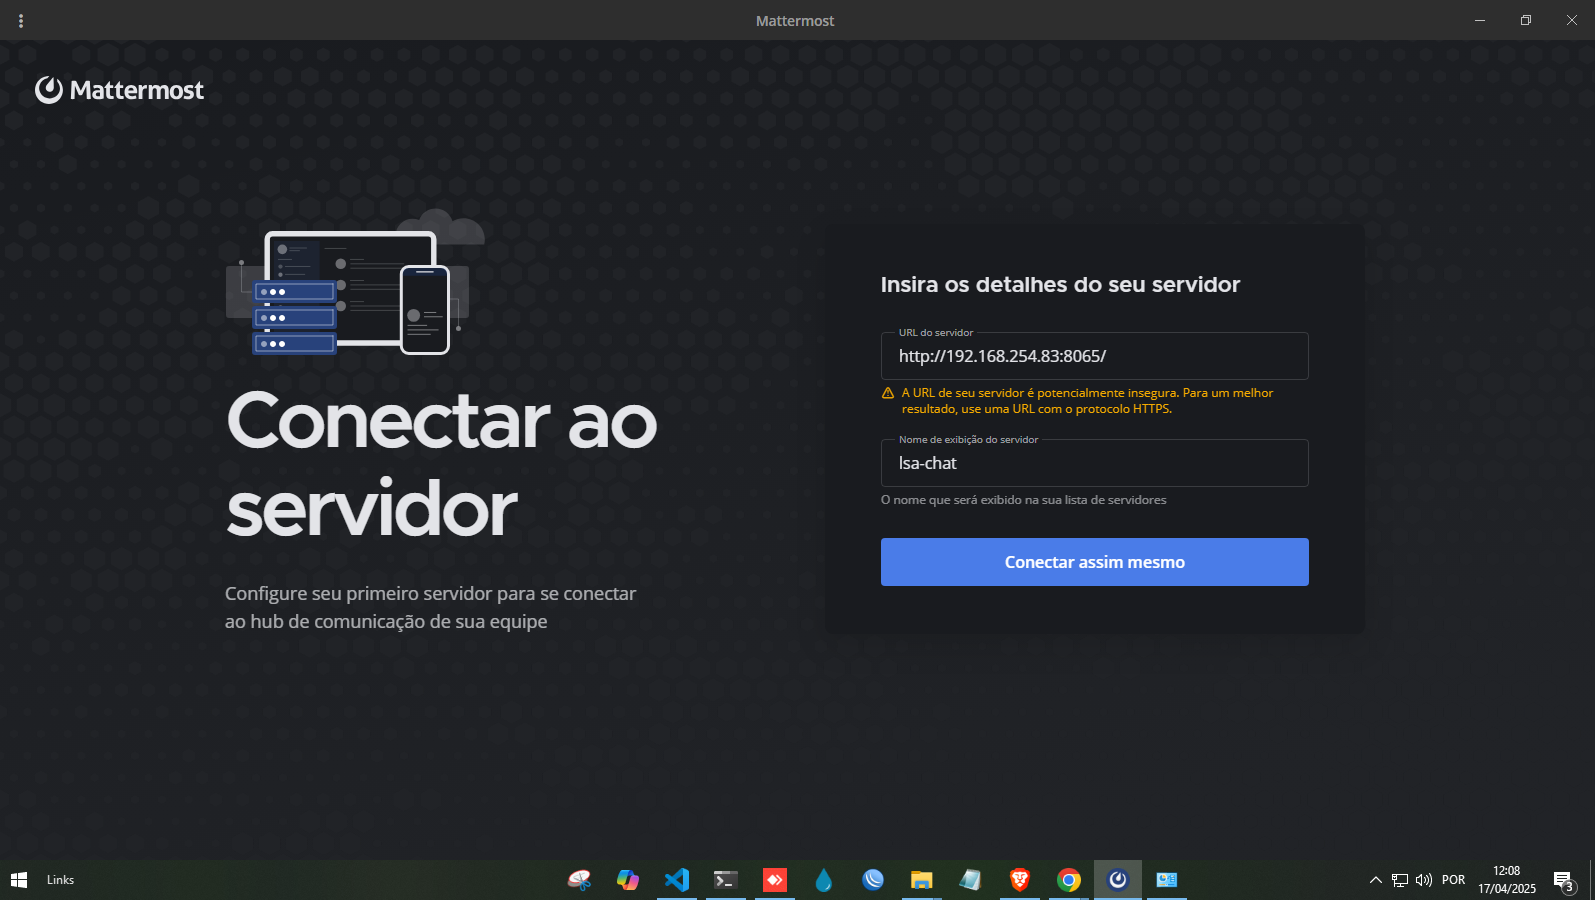
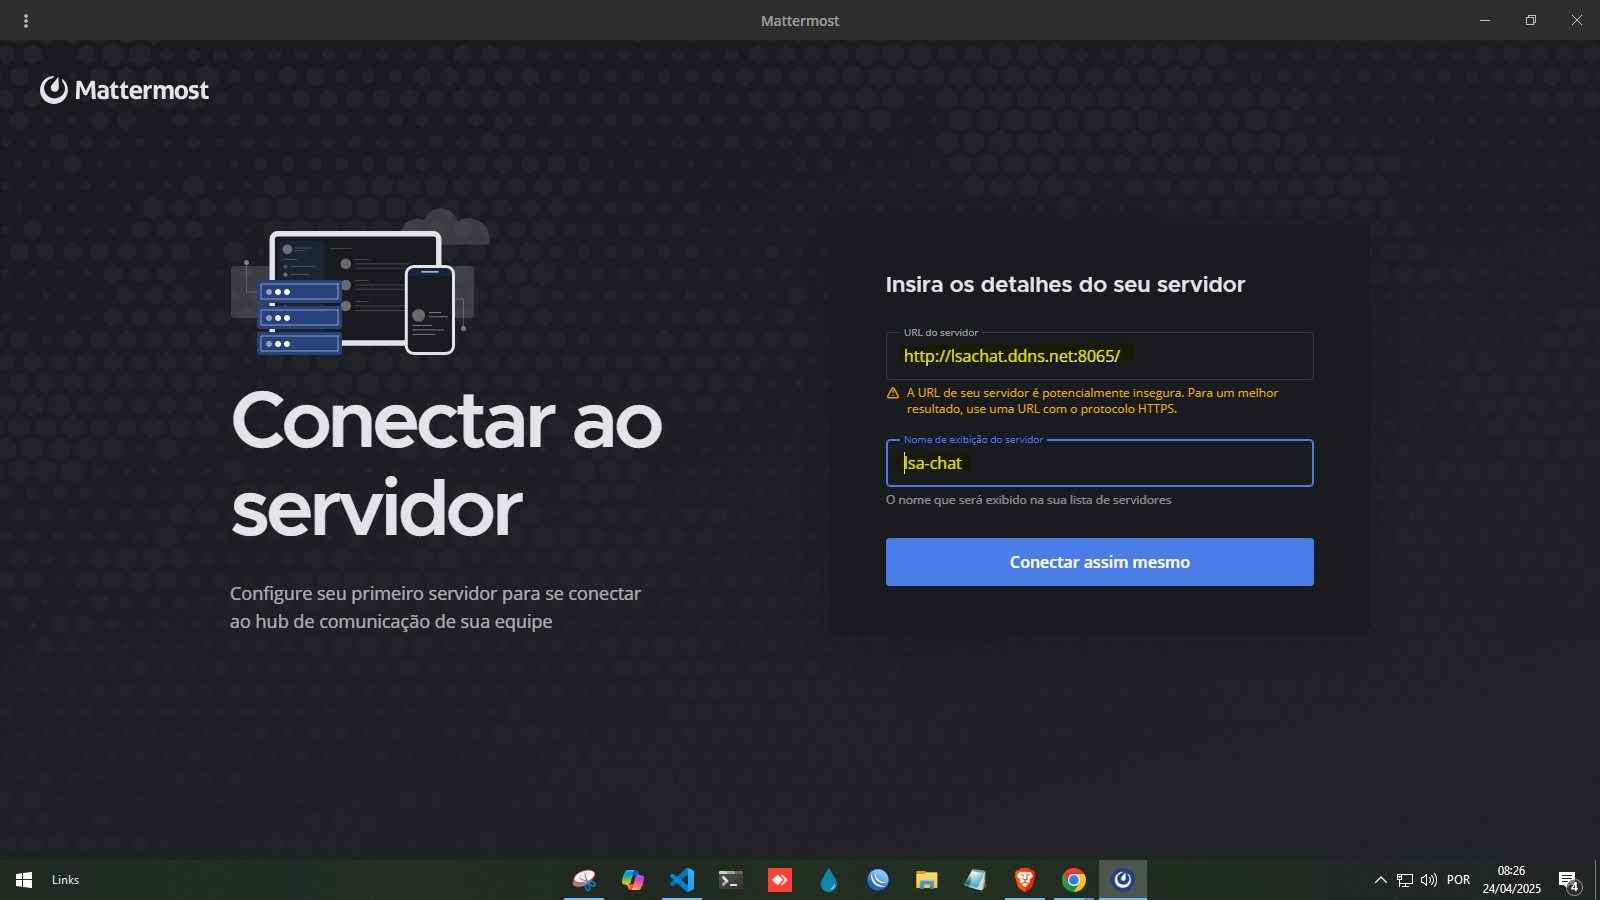
update domain and images

diff --git a/index.html b/index.html
@@ -19,7 +19,7 @@
     <section>
       <h2>Passo 1 – Acesse o Mattermost</h2>
       <p>Abra o navegador e acesse o link abaixo para se conectar ao servidor:</p>
-      <a href="http://192.168.254.83:8065/login" class="button" target="_blank">Abrir Mattermost Web</a>
+      <a href="http://lsachat.ddns.net:8065/landing#/" class="button" target="_blank">Abrir Mattermost Web</a>
       <p>Utilize seu login e senha fornecidos previamente.</p>
       <img src="imagens/tela-login.png" alt="Tela de login do Mattermost" />
     </section>
@@ -46,7 +46,7 @@
       <h2>Passo 3 – Conectando ao servidor</h2>
       <p>Ao abrir o aplicativo, insira o endereço do servidor:</p>
       <p>
-        <code id="server-url" >http://192.168.254.83:8065</code>
+        <code id="server-url" >http://lsachat.ddns.net:8065/landing#/</code>
         <button onclick="copiarEndereco()" style="padding: 4px 8px; margin-left: 6px; border: none; background-color: var(--button-color); color: white; border-radius: 4px; cursor: pointer;">
             📋 Copiar
           </button>
